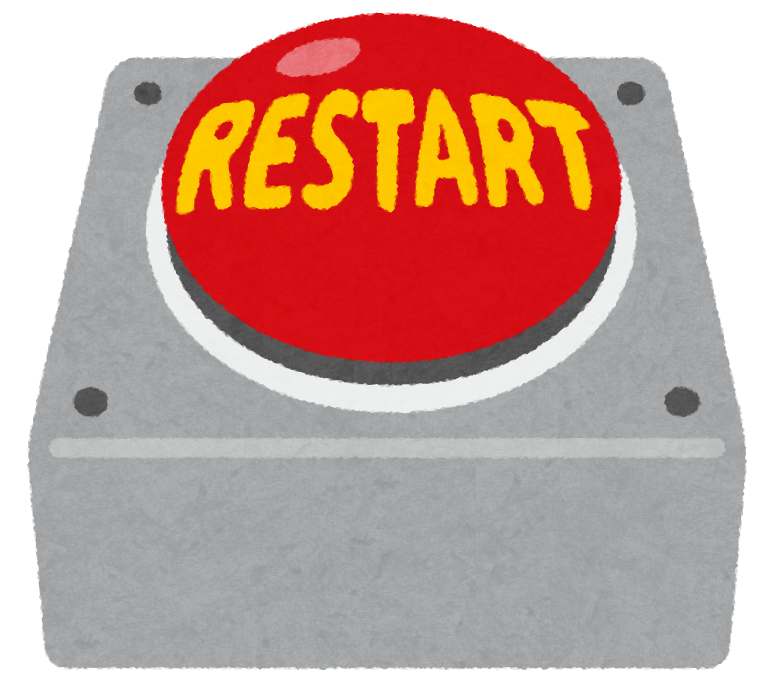
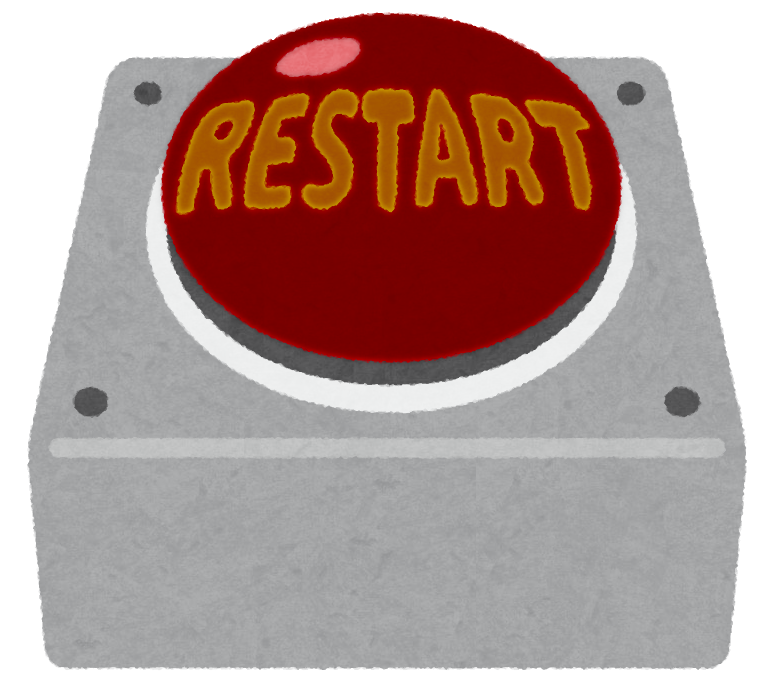
⚡ Implement preloading of pressed button sprite to improve performance

Changed region(s): [[0.1853, 0.0, 0.8031, 0.5447]]

diff --git a/src/lib/svelte/BottomPanel.svelte b/src/lib/svelte/BottomPanel.svelte
@@ -27,7 +27,7 @@
     background-color: transparent;
 
     /* background:  */
-    background-image: url("/static/images/restart-button2.png");
+    background-image: url("/static/images/restart-button.png");
     background-position: center;
     background-size: 100%;
     background-repeat: no-repeat;
@@ -40,24 +40,25 @@
     transform: scale(1.04);
   }
 
-  /* button:hover {
-    transform: scale(1.04);
-  } */
-
   button:active {
     transition: none;
-    /* TODO: find a way to precache url("shit") so it flickers instantly when clicked */
-    background-image: url("/static/images/restart-button.png");
+    background-image: url("/static/images/restart-button-clicked.png");
     background-color: transparent;
     border-color: transparent;
   }
 
 </style>
 
-<script>
+<script lang="ts">
   import { Utils } from "$lib/svelte/Utils";
   import { createEventDispatcher } from "svelte";
   
+  function preloadClickedButtonBackground() {
+    (new Image()).src = "/static/images/restart-button-clicked.png";
+  }
+
+  preloadClickedButtonBackground();
+
   let isDesktop = !Utils.IsMobile;
 
   const dispatch = createEventDispatcher();

diff --git a/src/lib/three/Resources.js b/src/lib/three/Resources.js
@@ -3,7 +3,7 @@ import { GLTFLoader } from "three/examples/jsm/loaders/GLTFLoader";
 
 export default class {
 
-  items = {}
+  items = [];
 
   // TODO: use enums and refactor to typescript
   // could make it take 5 seconds to load to preview changes in loading screen
@@ -73,7 +73,7 @@ export default class {
       this.#textureLoader.load(path, texture => {
         this.items[key] = texture;
         this.#makeProgress();
-        resolve();
+        resolve(null);
       })
     });
   }
@@ -87,7 +87,7 @@ export default class {
       this.#cubeTextureLoader.load(pathsToLoad, cubemap => {
         this.items[key] = cubemap;
         this.#makeProgress();
-        resolve();
+        resolve(null);
       })
     })
   }
@@ -99,7 +99,7 @@ export default class {
       this.#glbLoader.load(path, glbObject => {
         this.items[key] = glbObject;
         this.#makeProgress();
-        resolve();
+        resolve(null);
       })
     })
   }

diff --git a/src/lib/game/PieceWithMovements.ts b/src/lib/game/PieceWithMovements.ts
@@ -4,7 +4,7 @@ import type Piece from '$lib/game/Piece';
 export default class PieceWithMovements {
   public readonly pieceObject: Piece;
   public readonly pieceCoords: { x: number, y: number };
-  // TODO: movements can be movement: Array<Movement> | Movement, to reduce memory usage
+  // TODO: movements can be movement: Array<Movement> | Movement, to reduce memory usage as pieces can have one movement or more
   public readonly movements: Array<Movement>;
 
   constructor (piece: Piece, pieceCoords: { x: number, y: number }, movements: Array<Movement>) {
